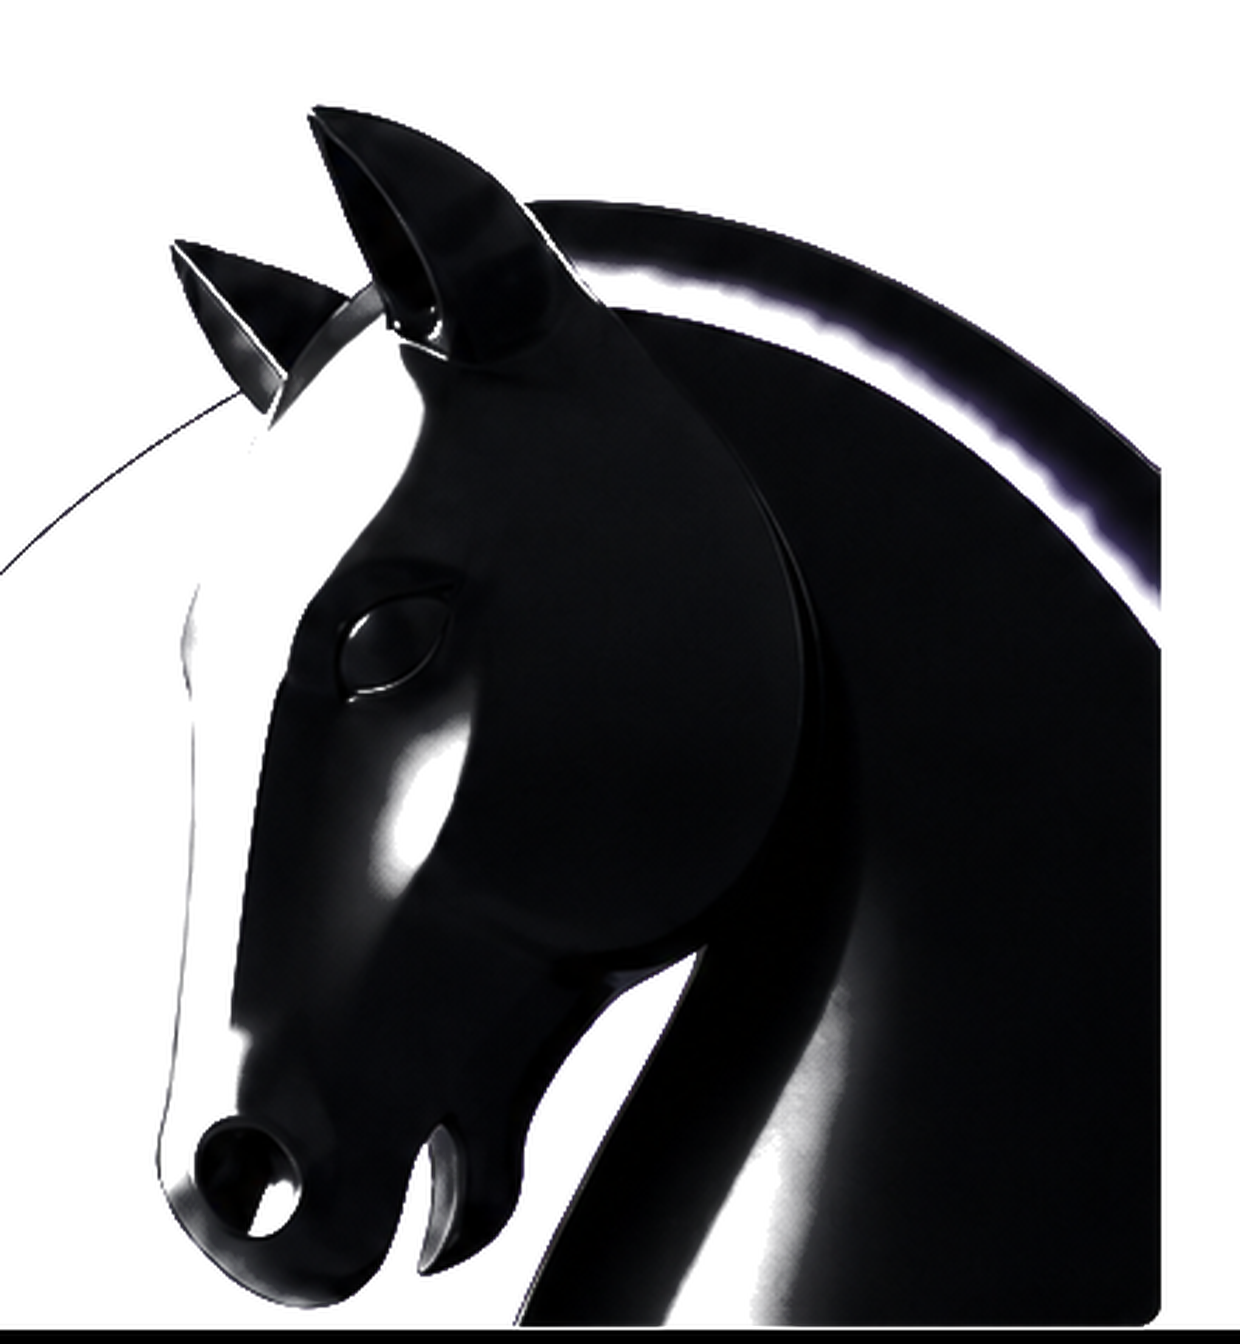
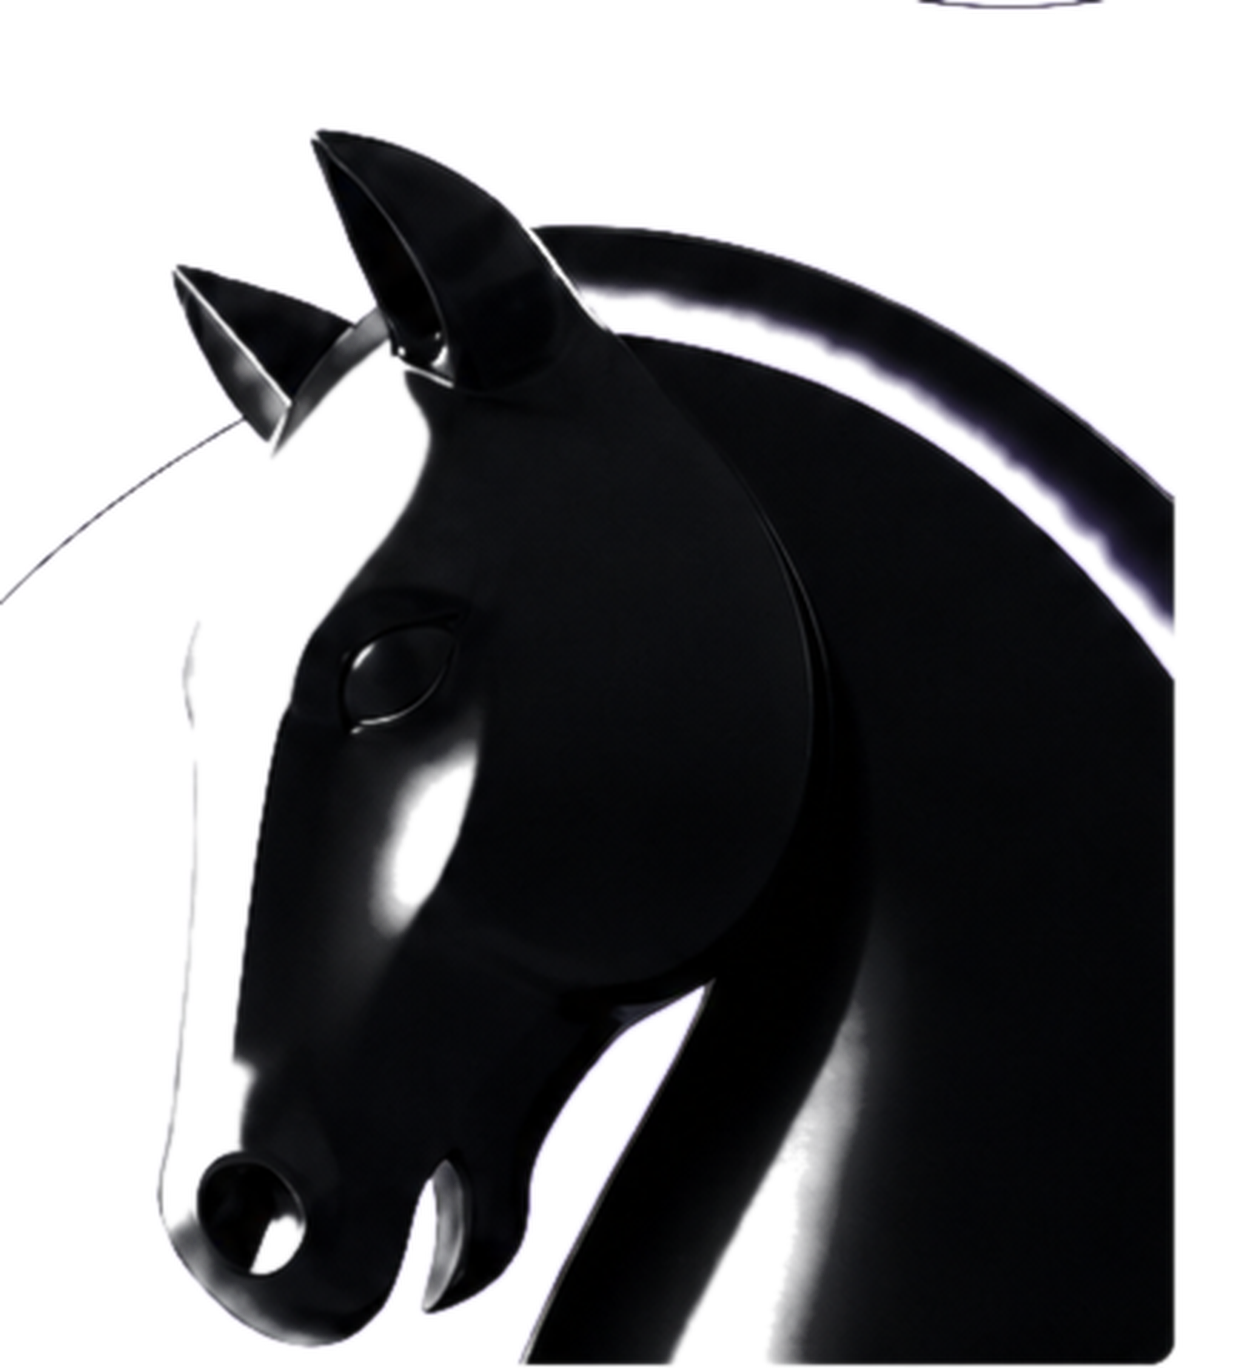
4-line headline, larger BUILD, bigger glow, cleaner knight PNG

diff --git a/styles/hero.css b/styles/hero.css
@@ -116,12 +116,11 @@ html, body {
 .hero__title .word {
   white-space: nowrap;
   display: inline-block;
+  flex-basis: 100%; /* every word on its own line — desktop matches mobile */
 }
 
-/* Line break: 0-height element forces wrap before "Build", leaving Build+fast on line 2 */
 .hero__lb {
-  flex-basis: 100%;
-  height: 0;
+  display: none;
 }
 
 .hero__title .dot {
@@ -181,18 +180,19 @@ html, body {
   position: absolute;
   z-index: 1;
   pointer-events: none;
-  width: 800px;
-  height: 800px;
-  right: -160px;
-  top: 0;
+  width: 1200px;
+  height: 1000px;
+  right: -300px;
+  top: -100px;
   background: radial-gradient(
     closest-side,
-    rgba(110, 60, 255, 0.65) 0%,
-    rgba(110, 60, 255, 0.40) 35%,
-    rgba(185, 164, 255, 0.18) 65%,
+    rgba(110, 60, 255, 0.70) 0%,
+    rgba(110, 60, 255, 0.45) 30%,
+    rgba(110, 60, 255, 0.22) 55%,
+    rgba(185, 164, 255, 0.10) 80%,
     transparent 100%
   );
-  filter: blur(4px);
+  filter: blur(6px);
 }
 
 /* BUILD word — z 2 */
@@ -200,13 +200,15 @@ html, body {
   position: absolute;
   z-index: 2;
   pointer-events: none;
-  left: 0;
-  bottom: -10px;
+  left: -20px;
+  right: -20px;
+  bottom: -20px;
+  text-align: center;
   font-weight: 900;
-  font-size: 200px;
-  line-height: 0.85;
-  letter-spacing: -0.05em;
-  color: rgba(110, 60, 255, 0.10);
+  font-size: 320px;
+  line-height: 0.82;
+  letter-spacing: -0.06em;
+  color: rgba(110, 60, 255, 0.12);
 }
 
 /* Rings — z 3 — encircles knight head */
@@ -220,7 +222,7 @@ html, body {
   top: 180px;
 }
 
-/* Knight — z 4 — head sits inside rings, bottom fades out */
+/* Knight — z 4 — head sits inside rings */
 .hero__knight {
   position: absolute;
   z-index: 4;
@@ -231,8 +233,6 @@ html, body {
   bottom: 0;
   object-fit: contain;
   display: block;
-  -webkit-mask-image: linear-gradient(to bottom, black 78%, transparent 100%);
-  mask-image: linear-gradient(to bottom, black 78%, transparent 100%);
 }
 
 /* ============================================================

diff --git a/index.html b/index.html
@@ -4,7 +4,7 @@
   <meta charset="utf-8" />
   <meta name="viewport" content="width=device-width, initial-scale=1" />
   <title>SNIR.</title>
-  <link rel="stylesheet" href="styles/hero.css?v=9" />
+  <link rel="stylesheet" href="styles/hero.css?v=10" />
 </head>
 <body>
 
